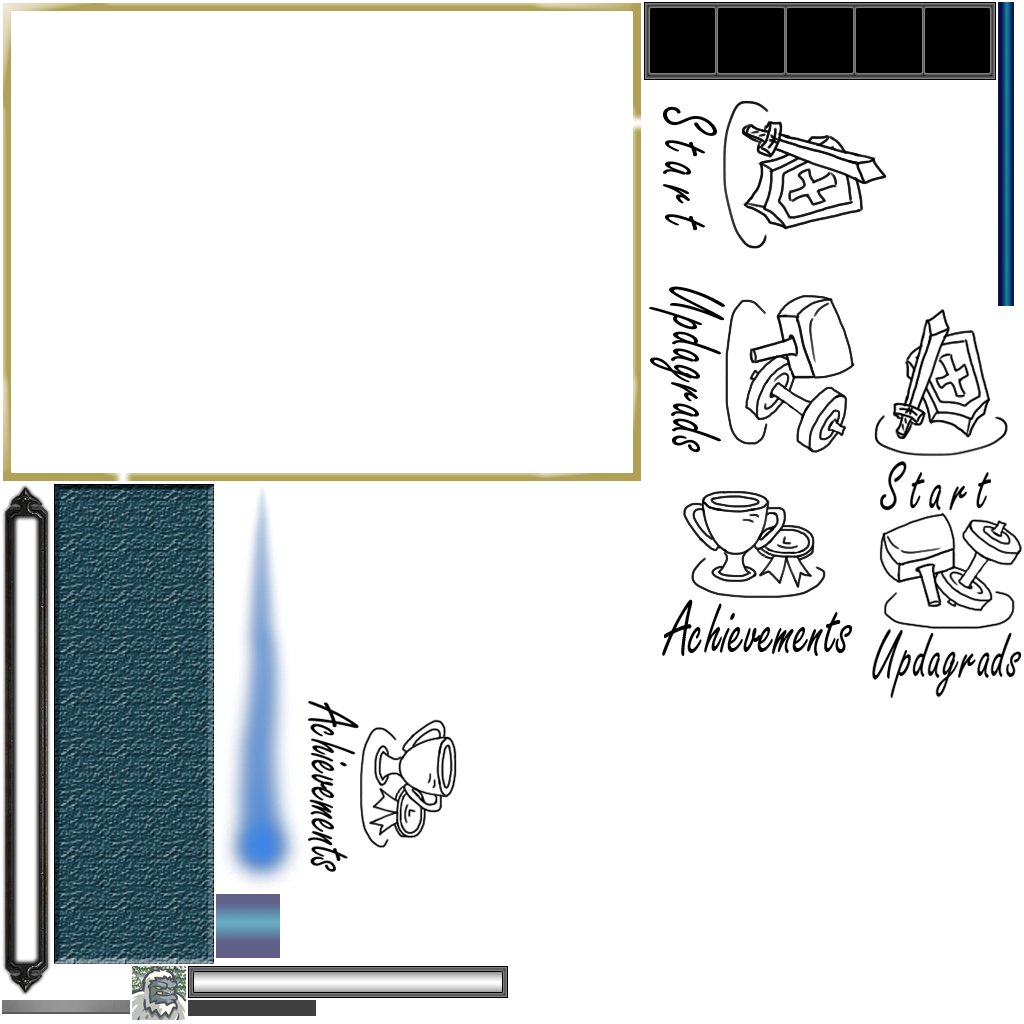
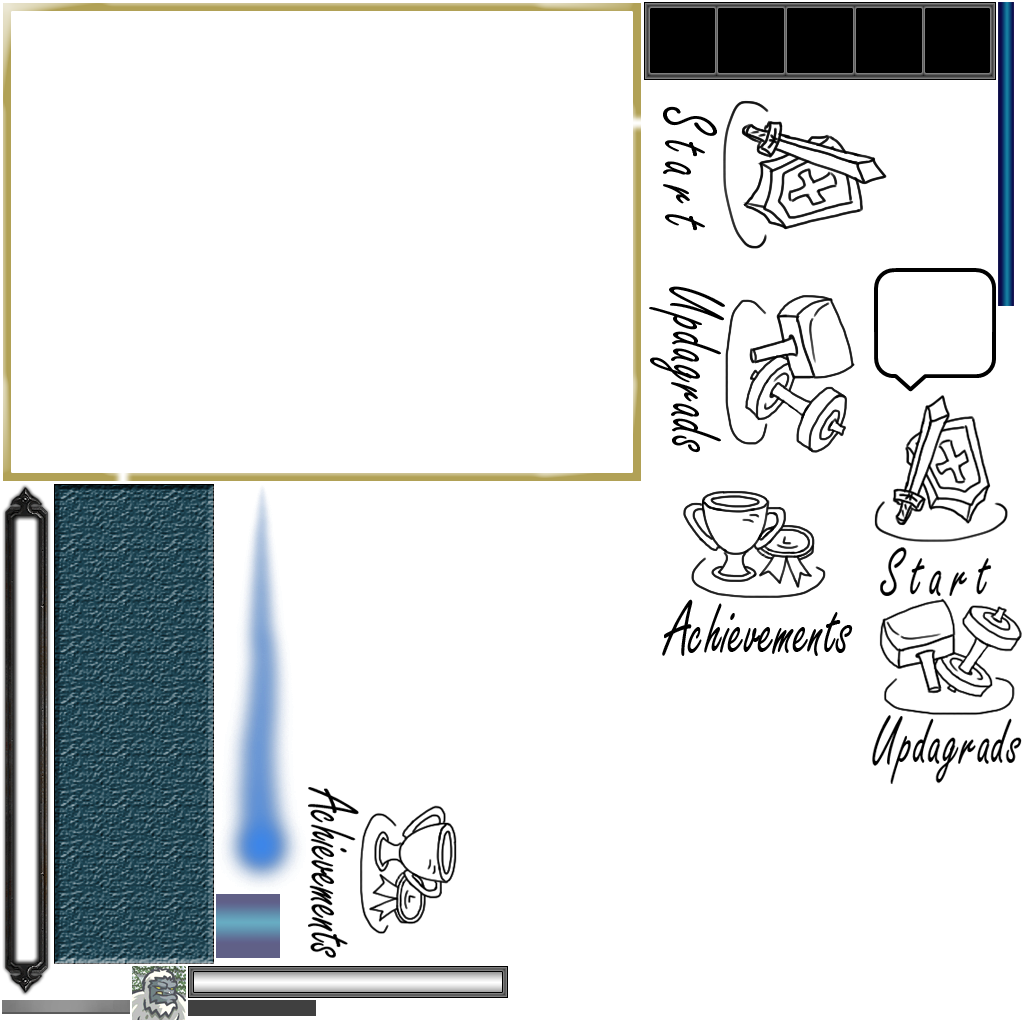
新增语言泡素材

Changed region(s): [[0.8438, 0.25, 1.0, 0.7812], [0.2812, 0.6875, 0.4688, 0.9375]]

diff --git a/Classes/Unit.cpp b/Classes/Unit.cpp
@@ -14,15 +14,15 @@
 #include "SkillInfo.h"
 
 
-void COnTickCallback::onDamaged(CUnit *pUnit, CAttackData *pAttack, CUnit *pSource, uint32_t dwTriggerMask)
+void CUnitAi::onDamaged(CUnit *pUnit, CAttackData *pAttack, CUnit *pSource, uint32_t dwTriggerMask)
 {
 }
 
-void COnTickCallback::onDie(CUnit *pUnit)
+void CUnitAi::onDie(CUnit *pUnit)
 {
 }
 
-void COnTickCallback::onTick(CUnit *pUnit, float fDt)
+void CUnitAi::onTick(CUnit *pUnit, float fDt)
 {
 }
 
@@ -555,7 +555,7 @@ CUnit::CUnit()
 , m_fSpirit(0)
 , m_eArmorType((CArmorValue::ARMOR_TYPE)0)
 , m_iTriggering(0)
-, m_pOnTick(NULL)
+, m_pAi(NULL)
 {
 }
 
@@ -694,6 +694,11 @@ void CUnit::onDamaged(CAttackData* pAttack, CUnit* pSource, uint32_t dwTriggerMa
         return;
     }
     triggerOnDamagedInnerTrigger(pAttack, pSource);
+
+    if (m_pAi)
+    {
+        m_pAi->onDamaged(this, pAttack, pSource, dwTriggerMask);
+    }
 }
 
 void CUnit::onDamageTarget( float fDamage, CUnit* pTarget, uint32_t dwTriggerMask )
@@ -713,6 +718,11 @@ void CUnit::onRevive()
 void CUnit::onDie()
 {
     triggerOnDie();
+
+    if (m_pAi)
+    {
+        m_pAi->onDie(this);
+    }
 
     CCArray oArrCopy;
     oArrCopy.initWithArray(&m_oArrBuff);
@@ -743,9 +753,9 @@ void CUnit::onHpChange( float fChanged )
 void CUnit::onTick(float fDt)
 {
     triggerOnTick(fDt);
-    if (m_pOnTick)
+    if (m_pAi)
     {
-        m_pOnTick->onTick(this, fDt);
+        m_pAi->onTick(this, fDt);
     }
 }
 
@@ -1130,6 +1140,11 @@ void CUnit::endTrigger()
 bool CUnit::isTriggerFree() const
 {
     return m_iTriggering == 0;
+}
+
+void CUnit::setAi(CUnitAi* pAi)
+{
+    m_pAi = pAi;
 }
 
 int CUnit::getKey() const

diff --git a/Classes/MainScene.cpp b/Classes/MainScene.cpp
@@ -70,6 +70,15 @@ bool CCMainSceneLayer::init()
 	m_oMenu.addChild(&m_oBattle);
 	m_oBattle.setPosition(ccp(oSz.width * 0.1 + m_oBattle.getContentSize().width * 0.5, oSz.height * 0.2));
 
+    CCSprite* pBubble = CCSprite::create("TalkBubble.png");
+    CCSize oTbSz = pBubble->getContentSize();
+    CCRect oFull(0, 0, oTbSz.width, oTbSz.height);
+    CCRect oInset(57, 26, 39, 42);
+    CCScale9Sprite* pTb = CCScale9Sprite::create("TalkBubble.png", oFull, oInset);
+    addChild(pTb);
+    pTb->setContentSize(CCSizeMake(160, 80));
+    pTb->setPosition(ccp(oSz.width * 0.5, oSz.height * 0.5));
+
     return true;
 }
 

diff --git a/Classes/WHomeScene.cpp b/Classes/WHomeScene.cpp
@@ -210,6 +210,8 @@ bool CCWHomeSceneLayer::init()
         pAchieve->display(out);
         CCLog("reach global : %s\n", out.str().c_str());
     }
+
+    CCScale9Sprite oS;
     return true;
 }
 
